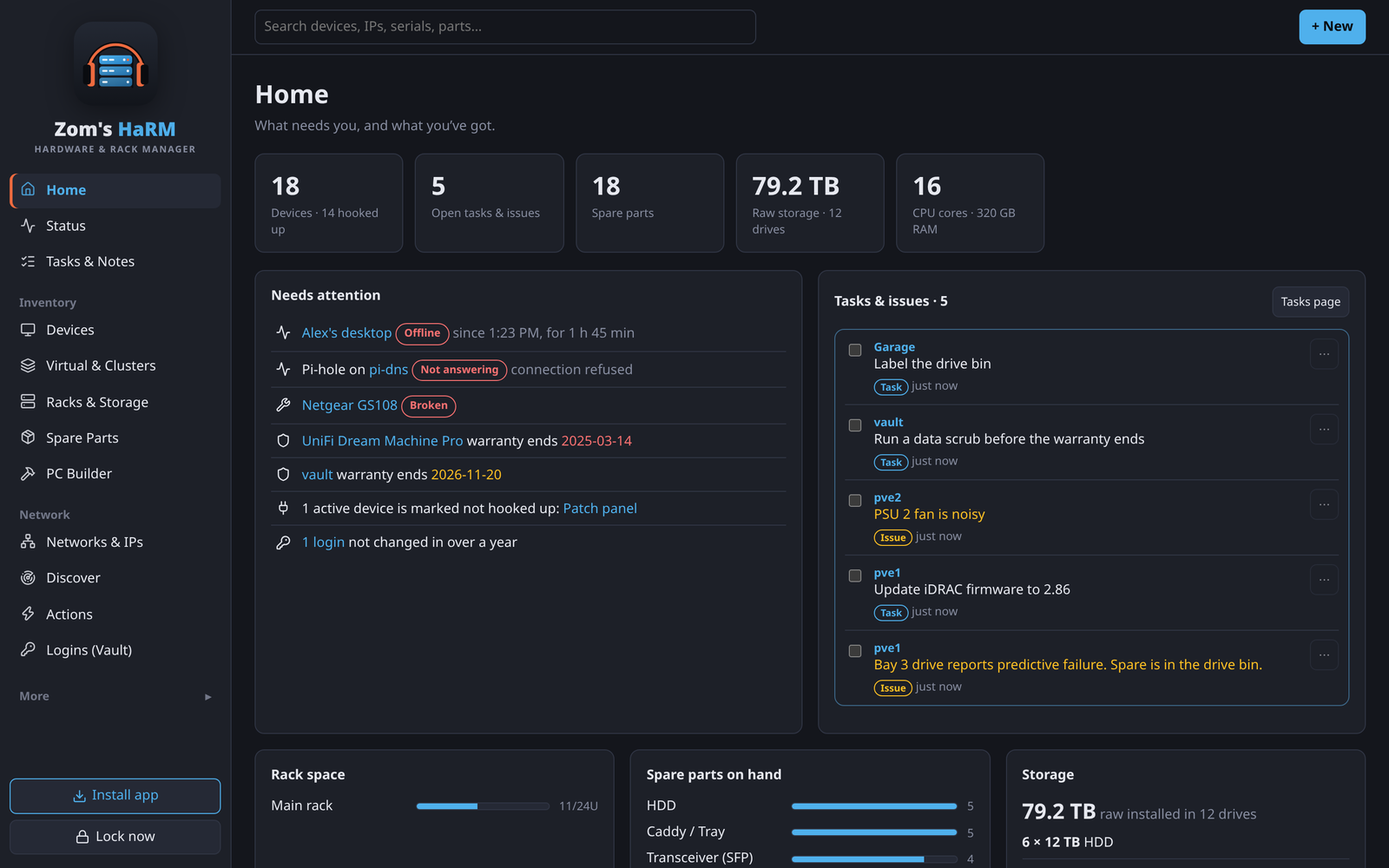
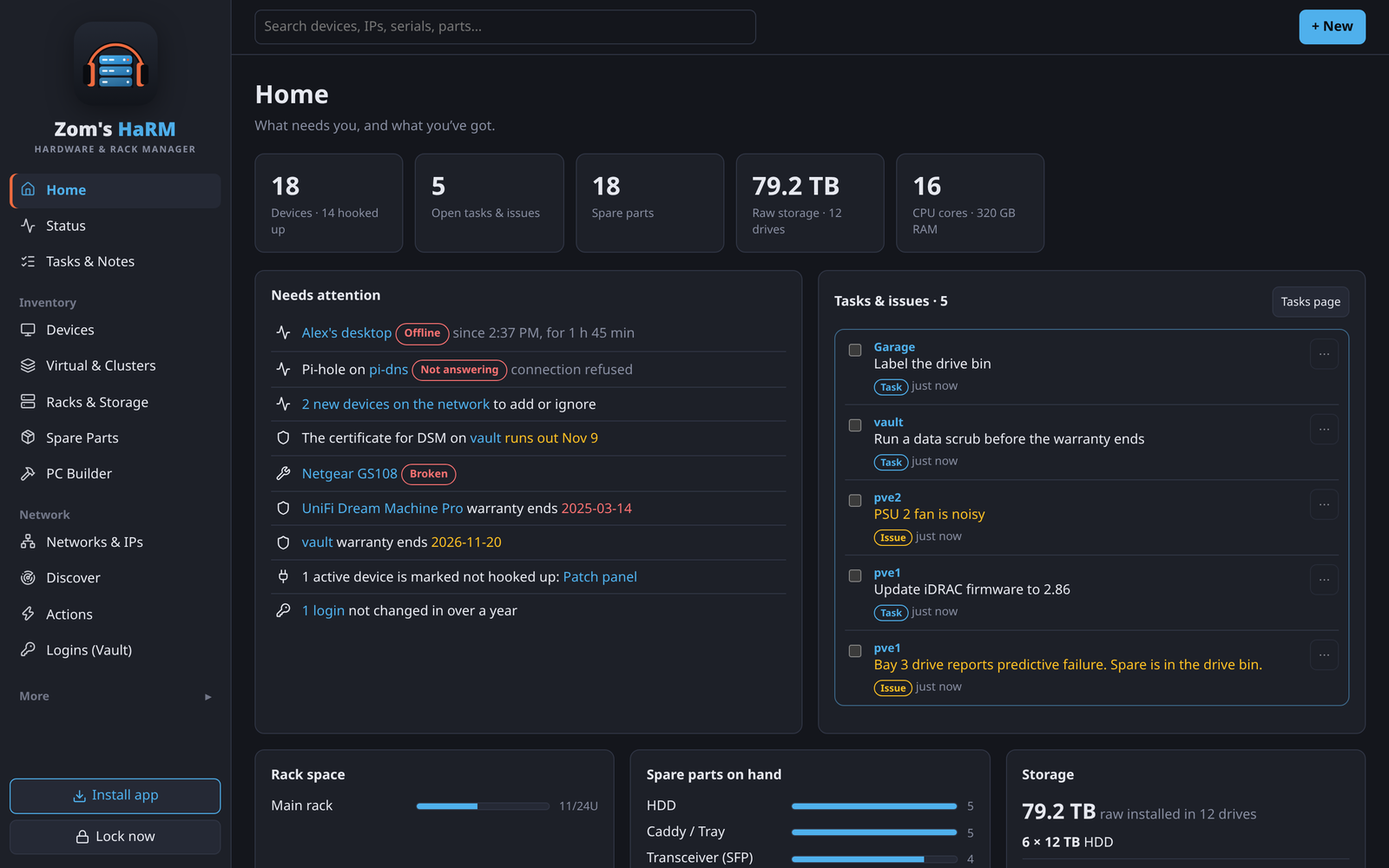
HaRM guide: Keeping watch group, uptime report, new devices, power budget
New pages for the uptime report, watching for new devices (picking
networks, leaving the guest Wi-Fi out) and the power budget. Status,
Alerts and Actions move into a Keeping watch group. Certificates, quiet
hours and backup copies documented where they live; glossary,
troubleshooting, settings and What's new updated; pictures retaken.

Changed region(s): [[0.1875, 0.434, 0.4688, 0.589], [0.2188, 0.62, 0.4688, 0.713]]

diff --git a/site/harm/new-devices.md b/site/harm/new-devices.md
@@ -1,0 +1,61 @@
+---
+description: "HaRM can scan the networks you pick now and then and tell you about devices it doesn't know: a new phone, a guest's laptop, something that shouldn't be there."
+---
+
+# New devices on the network
+
+HaRM can scan the networks you pick now and then, and tell you about any device it doesn't know yet: a new phone, a smart plug, a visitor's laptop, or something that shouldn't be there. Open **Status > ⋯ > Watch for new devices** to follow along. New in version 0.3.2.
+
+## Turning it on
+
+1. Add your networks with their address ranges first, in **Networks & IPs** (like `192.168.1.0/24`). See [Networks and cables](./networks).
+2. Open **Status > ⋯ > Watch for new devices** (or **Settings > Status and actions > New devices on the network**).
+3. Tick **Watch for new devices**, and tick the networks to watch.
+4. Press **Save**. HaRM runs the first scan straight away.
+
+![The watch settings with the home LAN ticked and the guest Wi-Fi left out](/img/harm/new-devices-settings.png)
+
+| Option | What it does |
+|---|---|
+| **Watch for new devices** | On or off. |
+| **Scan** | Every 15 or 30 minutes, every hour, or every 2 or 6 hours. |
+| **Send an alert for each new one** | Uses the ways set up in [Alerts](./alerts), with their quiet hours. |
+| The networks | Only the ticked ones are scanned. |
+
+### Which networks to watch
+
+Leave out networks where devices come and go all day, or you'll get an alert for every visitor:
+
+- **Guest Wi-Fi:** phones and laptops of whoever is visiting.
+- **IoT:** usually fine to watch once it's settled, but busy at first.
+- **WAN, VPN and transit networks:** not yours to scan.
+
+HaRM ticks your LAN, server and management networks the first time and leaves guest, IoT, Wi-Fi and WAN ones unticked. A network needs an address range to be watched, and the range can be at most a /22 (1,022 addresses).
+
+## The first scan only learns
+
+The first scan after turning the watch on, or after changing the networks, only learns what's already there: nothing is listed and no alerts are sent. From the next scan on, anything that wasn't there before shows up.
+
+## Adding or ignoring what it finds
+
+New devices show at the top of the [Status](./status) page under **New on the network**, with their address, name (when the network gives one), MAC address, network and when they were first seen. **Home** says how many are waiting.
+
+![New on the network, with two devices to add or ignore](/img/harm/new-devices.png)
+
+- **+ Add…** opens a new device with its name filled in. Save it, and HaRM adds its address and MAC on the **Network** tab and opens its page.
+- **Ignore** takes it off the list for good. A device ignored here doesn't come back, even when it leaves and returns.
+
+A device you add another way (by hand or with [Discover](./discover)) leaves the list by itself.
+
+## Good to know
+
+- A device is "known" when one of HaRM's devices has its MAC address or IP address. Devices that change their address use their MAC, so keep MACs on the **Network** tab.
+- Phones and laptops often use a different, made-up MAC on each Wi-Fi network (private Wi-Fi addresses). Add them once, or turn that off for your home Wi-Fi on the phone.
+- MAC addresses are only seen when HaRM is on the same network as the devices. In Docker, use `network_mode: host` (see [Setting up a server](./server)); otherwise it matches by IP address only.
+- The scan knocks on a few common ports and pings each address, like Discover's network scan. Devices that answer neither may be missed.
+
+## Related
+
+- [Discover](./discover): bring in a whole network at once
+- [Alerts](./alerts): how alerts are sent
+- [Status](./status): where new devices are listed

diff --git a/site/harm/whats-new.md b/site/harm/whats-new.md
@@ -14,9 +14,17 @@ What changed in each version of HaRM, newest first. It's the same list as [CHANG
 - HaRM checks every 5 minutes, and every minute while the page is open. Change it, or turn it off, in **Settings > Status and actions**. Devices that go offline also show on **Home**.
 - **Services are checked too:** each web page or port on a device's **Network** tab says **Answering** or **Not answering** (a 502 from a proxy counts as not answering), on its tile, on the device's page and on **Home**.
 - **Alerts:** a message by **ntfy** (a phone app), **email** or a **webhook** (Home Assistant, Discord, Slack, Gotify…) when a device or service stops answering, and when it's back. A short wait skips blips like restarts, many changes at once arrive as one message, and **Send a test** checks it works. Set it up in **Settings > Status and actions > Alerts**; turn it off for one device with **Send alerts about it**.
+- **Quiet hours** hold alerts overnight (or whenever you choose) and send them as one message when they end.
+- **Certificates:** HaRM notes when each https service's certificate runs out, warns on **Home** 30 days before, and alerts 14 days before.
+- **Uptime report** (**📊 Uptime** on the Status page): how much of the last day, week or month each device and service answered, worst first, with the number of outages, the longest, and the total time down. VMs, containers and the services your Docker containers publish are in it too.
+- **New devices on the network:** HaRM can scan the networks you pick now and then (leave the guest Wi-Fi out) and list anything it doesn't know at the top of the Status page, with **+ Add…** and **Ignore**, and an alert if you want one. The first scan only learns what's already there.
 - **The rack drawing** outlines a device in red and says **Offline** when it isn't answering.
 - **Wake** sends a Wake-on-LAN packet to an offline device with a MAC address.
 - **⋯ > Full screen** turns the page into a wall display.
+
+**Power budget**
+- Give a UPS or PDU what it **Can supply**, set what each device is **Plugged into**, and give a rack its **Power available** (its circuit's limit).
+- The rack page and the UPS's page show how much is used, counting through PDUs, and **Home** warns at 80% and over 100%.
 
 **One-click actions**
 - Save a command once and send it to a device over SSH with one click: quiet a server's fans, update, restart, power on through the iLO or iDRAC.
@@ -45,6 +53,7 @@ What changed in each version of HaRM, newest first. It's the same list as [CHANG
 **Settings**
 - Settings are grouped: Appearance, Locking and security, Phones & tablets, Status and actions, AI Assist, Data & backups, Shortcuts and About.
 - **Settings > About** shows the version and license, links to the code and this list, and has **Send feedback**, which starts an email with your version and device filled in.
+- **Copy to a second place** (**Settings > Data & backups**): each day's backup is also copied to another disk, like a NAS share or USB drive, keeping the last 7 to 90.
 - **Check for new versions** (off unless you turn it on) asks GitHub about twice a day and puts a note on **Home** when a newer HaRM is out.
 
 **On GitHub**

diff --git a/site/harm/power.md b/site/harm/power.md
@@ -1,0 +1,46 @@
+---
+description: "See how much power each UPS, PDU and rack is asked for, and get a warning before a UPS or circuit is overloaded."
+---
+
+# Power budget
+
+HaRM adds up what your devices draw and compares it with what each UPS or PDU can supply and what each rack's circuit allows. Open a rack (or a UPS) to follow along. New in version 0.3.2.
+
+![A rack's Power card: the rack at 33% of its circuit, and the UPS at 47%](/img/harm/rack-power.png)
+
+## Setting it up
+
+| Where | Field | What to enter |
+|---|---|---|
+| Each device, **Edit > More details** | **Typical draw (W)** | What it usually draws, in watts. The label, the maker's spec sheet or a plug-in power meter tells you. |
+| Each device, **Edit > More details** | **Plugged into** | The UPS or PDU it draws power from. |
+| The UPS or PDU, **Edit > More details** | **Can supply (W)** | The most it can power, in **watts**. A UPS has two ratings: use the W one, not the VA one (an "1500 VA" UPS is often 1000 W). |
+| The rack, **Edit** | **Power available (W)** | The circuit's safe limit. A 15 A, 120 V circuit is 1,440 W (80% of 1,800 W); a 16 A, 230 V one is about 2,900 W. |
+
+**Can supply** shows once the device's type is UPS or PDU. Only UPSes, PDUs and devices with **Can supply** set appear in the **Plugged into** list.
+
+## What it shows
+
+- **The rack page:** a **Power** card with everything hooked up in the rack against its **Power available**, and each UPS or PDU in the rack against what it can supply.
+- **A UPS or PDU's page:** a **Power** card on its **Overview** tab with its load and everything plugged into it.
+- **Home:** a warning under **Needs attention** when a UPS or rack reaches 80%, and "Over" past 100%.
+
+The bars turn amber at 80% and red at 100%.
+
+## How it's added up
+
+- Only devices that are **Hooked up** count. A spare server on the shelf doesn't draw anything.
+- A PDU plugged into a UPS passes its load on: the UPS's load includes everything plugged into the PDU.
+- A rack's total is each hooked-up device's own **Typical draw**, so a PDU in the rack isn't counted twice.
+- Devices without a **Typical draw** count as 0 W, and the card lists them, so you know the real total is higher.
+- A device can't be plugged into itself, or into something that's plugged into it.
+
+::: tip Why 80%
+A circuit shouldn't carry more than 80% of its rating for long, and a UPS near 100% has little runtime left and no room for a server's start-up surge. That's why HaRM warns at 80%.
+:::
+
+## Related
+
+- [Places and racks](./places-and-racks): the rack page
+- [Devices](./devices): editing a device
+- [Status](./status): which devices are answering right now

diff --git a/site/harm/uptime.md b/site/harm/uptime.md
@@ -1,0 +1,41 @@
+---
+description: "The uptime report shows how much of the last day, week or month each device and service answered, worst first, with its outages."
+---
+
+# Uptime report
+
+The uptime report shows how much of the last day, week or month each device and service answered, worst first. Open **Status** and press **📊 Uptime** to follow along. New in version 0.3.2.
+
+![The uptime report: Alex's desktop and pve2 at the top with their outages, the rest at 100%](/img/harm/uptime.png)
+
+## Reading it
+
+Pick **Last 24 hours**, **Last 7 days** or **Last 30 days** at the top. There are two tables, **Devices** and **Services**, each sorted worst first. Click a column heading to sort by it.
+
+| Column | What it means |
+|---|---|
+| **Answered** | The share of the time it answered, with a bar: green from 99.9%, amber from 99%, red below. |
+| **Outages** | How many times it stopped answering in the period. |
+| **Longest** | The longest of those outages. |
+| **Down in total** | All the outages added up. |
+
+A device is measured by its main address, the same one the [Status](./status) page shows first. Virtual machines and containers say which host they run on.
+
+## Services and Docker containers
+
+Every service HaRM checks is in the **Services** table: web pages and ports on a device's **Network** tab (see [Status](./status#services)).
+
+HaRM doesn't talk to Docker itself. To see your Docker containers in the report, add each one as a service on the Docker host's **Network** tab, with the port or web address it publishes (Portainer on 9443, Nextcloud on 8080…). Put "Docker container" in its notes if you like. A container that runs as its own machine with its own address (an LXC container on Proxmox, say) can be a device instead: see [Virtual machines and clusters](./virtual-and-clusters).
+
+## What counts
+
+- Only time HaRM was checking counts. If the HaRM computer was off or asleep, or checks were off, that time is left out instead of counting as down.
+- A device that's **Not hooked up**, retired, sold or has **Check if it's online** unticked isn't checked, so it isn't in the report.
+- History is kept for 30 days, so a device added last week only has last week.
+- For a full month with no gaps, run HaRM on an [always-on server](./scenarios/home-server).
+
+## Related
+
+- [Status](./status): what's answering right now
+- [Alerts](./alerts): a message the moment something stops answering
+- [Networks and cables](./networks): adding services and ports

diff --git a/site/harm/alerts.md b/site/harm/alerts.md
@@ -21,6 +21,10 @@ HaRM can send you a message when a device or service stops answering, and when i
 | **When a device stops answering** | **Alert right away**, or wait 5, 10, 15 or 30 minutes, or an hour. Waiting skips short blips, like a restart. |
 | **Also tell me when it's back** | A second message when it answers again, with how long it was down. |
 | **Also when a service stops answering** | Alerts about the services on a device's **Network** tab too (a web page or a port), while the device itself answers. |
+| **Also when a certificate runs out soon** | One alert 14 days before an https service's certificate runs out (or as soon as HaRM sees one that already has). |
+| **Hold alerts during quiet hours** | With **From** and **Until**: see [Quiet hours](#quiet-hours). |
+
+[New devices on the network](./new-devices) send their alerts the same way, when that's turned on.
 
 Alerts only cover devices that are checked (see [Status](./status#how-a-device-is-checked)). To leave one device out, edit it and untick **Send alerts about it**.
 
@@ -64,9 +68,15 @@ HaRM posts JSON with these fields:
 | A device stops answering | **pve2 is offline**: "No answer from 10.20.0.11 since 14:30." |
 | It's back | **pve2 is back online**: "10.20.0.11 answers again, after 25 min." |
 | A service stops answering | **Proxmox VE on pve1 isn't answering**: the address and why (HTTP 502, connection refused, no answer). |
-| More than 3 changes at once | One message, like **HaRM: 6 stopped answering**, listing them. A power cut or a dead switch sends one message, not twenty. |
+| A certificate runs out soon | **The certificate for DSM on vault runs out soon**: the address and the date. |
+| A new device on a watched network | **New on Home LAN: Sams-iPhone**: its address, MAC and name. |
+| More than 3 at once | One message, like **HaRM: 6 problems**, listing them. A power cut or a dead switch sends one message, not twenty. |
 
 A service isn't reported while its device is offline: the device's own alert covers it. When you turn alerts on, things that were already down don't send an alert.
+
+## Quiet hours
+
+Tick **Hold alerts during quiet hours** and choose **From** and **Until** (in the HaRM computer's time), like 22:00 to 07:00. Alerts in that time are held, and when quiet hours end they arrive together as one message ("HaRM: 3 alerts from quiet hours") listing what happened, including things that went down and came back overnight. **Send a test** is never held.
 
 ## When they're sent
 

diff --git a/site/harm/settings.md b/site/harm/settings.md
@@ -36,7 +36,8 @@ How it all protects your logins: [Security and privacy](./security).
 ## Status and actions
 
 - **Check**: how often HaRM checks which devices answer, from **Every minute** to **Every hour**, or **Never (only when I press Check now)**. Every 5 minutes at first. While the Status page is open, it checks every minute anyway.
-- **Alerts**: a message by ntfy, email or a webhook when a device or service stops answering, and when it's back. **Set up alerts…** chooses how and when; **Send a test** checks it works, and the list under it shows the last alerts sent. See [Alerts](./alerts).
+- **Alerts**: a message by ntfy, email or a webhook when a device or service stops answering, when it's back, and when a certificate runs out soon, with optional **quiet hours**. **Set up alerts…** chooses how and when; **Send a test** checks it works, and the list under it shows the last alerts sent. See [Alerts](./alerts).
+- **New devices on the network**: **Watch for new devices…** picks the networks to scan, how often, and whether to alert; **Scan now** scans straight away. See [New devices on the network](./new-devices).
 - **Actions** opens your saved one-click commands.
 
 To leave one device out of the checks, edit it and untick **Check if it's online**; to keep checking it without alerts, untick **Send alerts about it**. See [Status](./status) and [Actions](./actions). New in version 0.3.2.
@@ -54,6 +55,7 @@ Photos go only to the service you pick, and logins are never sent. Without a ser
 ## Data & backups
 
 - **Automatic backups**: the newest daily backups and where they're kept.
+- **Copy to a second place**: **Choose a folder…** on another disk (a NAS share or USB drive) and how many copies to keep; **Copy now** copies straight away. See [Data and backups](./data-and-backups#copying-backups-to-a-second-place). New in version 0.3.2.
 - **Download backup (.db)**: the whole database in one file. Logins stay encrypted inside.
 - **Export CSV**: a spreadsheet of each list. The logins file has names and usernames only, never passwords.
 

diff --git a/site/harm/glossary.md b/site/harm/glossary.md
@@ -33,11 +33,15 @@ What HaRM's words mean, in alphabetical order. Each links to the page that expla
 | **Offline, Online** | Whether a device answered HaRM's last check, on any port or to ping ([Status](./status)) |
 | **Older SSH** | The older ways of connecting that old iLO, iDRAC and switch SSH needs, turned on per action ([Actions](./actions#older-ssh-for-old-management-ports)) |
 | **Overcommit** | When a host's VMs are given more vCPUs or memory, in total, than it has ([Virtual machines and clusters](./virtual-and-clusters)) |
+| **Power budget** | How much a UPS, PDU or rack's circuit is asked for, against what it can supply ([Power budget](./power)) |
+| **Quiet hours** | A time of day when alerts are held and sent together afterwards ([Alerts](./alerts#quiet-hours)) |
 | **RAID, RAIDZ** | Ways of combining drives for speed or safety; HaRM shows the space each gives ([Parts and storage](./parts-and-storage)) |
 | **Recovery code** | The code that gets you back in if you forget the master password ([Security and privacy](./security)) |
 | **Spot** | Free text for exactly where something is: "top shelf left" ([Places and racks](./places-and-racks)) |
 | **Task** | A note that stays on **Home** until it's ticked off ([Notes and tasks](./notes-and-tasks)) |
 | **U (rack unit)** | A rack's height unit, 1.75 in. A 2U server takes two ([Places and racks](./places-and-racks#the-rack-view)) |
+| **Uptime** | The share of the time a device or service answered HaRM's checks ([Uptime report](./uptime)) |
+| **VA and W** | A UPS's two ratings; HaRM uses watts (W), which is the lower one ([Power budget](./power)) |
 | **Vault** | Where saved logins are kept, encrypted (**Logins (Vault)** in the menu) ([Logins](./logins)) |
 | **VLAN** | A separate network on the same cables and switches, numbered (VLAN 20) ([Networks and cables](./networks)) |
 | **VM (virtual machine)** | A computer running inside a host, with its own vCPUs, memory and disk ([Virtual machines and clusters](./virtual-and-clusters)) |

diff --git a/site/harm/status.md b/site/harm/status.md
@@ -50,7 +50,9 @@ Once a device answers, HaRM checks the services on its **Network** tab too, and 
 | A web address (`https://…` or `http://…`) | It sends any reply below a 500 error. A login page, a 401 or a 404 still means it's there; a 502 from a proxy in front of it means it isn't. Certificates aren't checked, since home-lab services usually have their own. |
 | A port, and no web address | The port accepts a connection. |
 
-Services marked **Stopped**, **Planned** or **Deprecated**, and UDP ones, aren't checked. A service that isn't answering also shows on **Home**, and the room's heading says how many.
+Services marked **Stopped**, **Planned** or **Deprecated**, and UDP ones, aren't checked.
+
+For an https service, HaRM also notes when its certificate runs out (self-signed ones too). The device's **Actions** tab shows the date, its tile says **Certificate runs out …** in its last 30 days, and **Home** warns too. [Alerts](./alerts) can send a message 14 days before. A service that isn't answering also shows on **Home**, and the room's heading says how many.
 
 The device's own page shows the same thing: its summary row starts with **Online** or **Offline**, and its **Actions** tab lists every address and service with its answer and the 24 bars, and the **Network** tab has an **Answering** column for services. Tap the word to check again.
 
@@ -103,6 +105,8 @@ More in [Troubleshooting](./troubleshooting#status-and-actions).
 ## Related
 
 - [Alerts](./alerts): a message by ntfy, email or webhook when something stops answering
+- [Uptime report](./uptime): how much of the last day, week or month each one answered
+- [New devices on the network](./new-devices): devices HaRM doesn't know yet, listed at the top of this page
 - [Actions](./actions): one-click commands, from a tile or a device's page
 - [Settings](./settings#status-and-actions): how often HaRM checks
 - [Networks and cables](./networks): addresses, MACs and services that the checks use

diff --git a/site/harm/data-and-backups.md b/site/harm/data-and-backups.md
@@ -39,6 +39,21 @@ Everything in the database, including your saved logins. They stay encrypted ins
 
 A backup on the same disk doesn't help if the disk dies. Copy the `backups` folder (or a downloaded backup) to another disk or computer now and then.
 
+## Copying backups to a second place
+
+A backup on the same disk as HaRM doesn't help when that disk dies. **Settings > Data & backups > Copy to a second place** copies each day's backup to another disk as well. New in version 0.3.2.
+
+1. Connect the other disk to the computer HaRM runs on: a USB drive, or a NAS share mounted as a drive or folder.
+2. Press **Choose a folder…** and enter the folder's whole path, like `D:\HaRM backups` on Windows or `/mnt/nas/harm-backups` on Linux.
+3. Choose how many copies to keep there: the last 7, 14, 30 or 90.
+4. Press **Save**. HaRM copies the newest backup straight away, then once a day.
+
+The card shows the last copy, or why it failed ("isn't there. Is the drive or share connected?"). **Copy now** copies again. Logins stay encrypted in the copies, like in every backup; `alerts.key` isn't copied.
+
+::: tip In Docker
+The folder has to be inside the container. Add it under `volumes:` in `docker-compose.yml`, like `- /mnt/nas/harm-backups:/backup-copies`, run `docker compose up -d`, and pick `/backup-copies` in HaRM. The folder must be writable by the container's user (ID 10001).
+:::
+
 ## Downloading a backup
 
 **Settings > Data & backups > Download backup (.db)** saves the whole database to your Downloads, whenever you like. It's the same kind of file as the daily ones.

diff --git a/site/harm/troubleshooting.md b/site/harm/troubleshooting.md
@@ -176,6 +176,18 @@ HaRM checks exactly the web address or port on the device's **Network** tab. If 
 3. Email: for Gmail and Outlook, use an app password. Check **Security** matches the port (STARTTLS with 587, SSL/TLS with 465).
 4. Nothing at all after a real outage: the HaRM computer has to be on, and checks on (**Settings > Status and actions > Check**). Alerts wait as long as you chose before sending.
 
+### New devices: nothing is ever listed
+
+The first scan after turning the watch on only learns what's there. If later scans find nothing either, check the network's address range in **Networks & IPs**, and that HaRM is on that network. **Settings > Status and actions > New devices on the network** shows the last scan and any error.
+
+### New devices: the same phone keeps showing up
+
+Phones and laptops use a made-up MAC address per Wi-Fi network, and some change it now and then. Add the device once with **+ Add…**, or turn off the private Wi-Fi address for your home network on the phone.
+
+### Copy to a second place: "isn't there"
+
+The drive or share isn't connected or mounted on the HaRM computer. Connect it and press **Copy now**. In Docker, the folder must be added under `volumes:`.
+
 ### An action says the machine "only speaks an older kind of SSH"
 
 Edit the action and tick **Older SSH**. If it still fails, paste the `-o …` settings from an `ssh` command that works into **Other SSH settings** (under **More details**).

diff --git a/site/harm/places-and-racks.md b/site/harm/places-and-racks.md
@@ -35,7 +35,7 @@ Open a rack from **Racks & Storage** to see it front and rear.
 ![A rack, front and rear](/img/harm/rack.png)
 
 - **Click an empty U** to add a device there, or to place one you already have.
-- Each device shows its name, type and status. Its color says what kind of device it is (servers and computers, network, storage, power, other gear, accessories), and a key under the rack names each color. A device that isn't answering is outlined in red and says **Offline** (see [Status](./status)). New in version 0.3.2.
+- Each device shows its name, type and status. Its color says what kind of device it is (servers and computers, network, storage, power, other gear, accessories), and a key under the rack names each color. A device that isn't answering is outlined in red and says **Offline** (see [Status](./status)). With the rack's **Power available** set, a **Power** card shows how much of it is used (see [Power budget](./power)). New in version 0.3.2.
 - Broken devices get a red outline, spares and standby devices are dimmed, and a flag shows open issues.
 - Devices can be half depth and mounted at the front or rear, so a front and a rear device can share a U.
 - HaRM refuses overlaps and positions outside the rack, and says which device is in the way.

diff --git a/site/harm/server-backups.md b/site/harm/server-backups.md
@@ -16,7 +16,7 @@ Everything is in the `data` folder (Docker: `./data` next to `docker-compose.yml
 | `backups/` | Daily copies of `harm.db`, the last 14 by default |
 | `tls/` | The certificate authority your phones trust. Without it, every phone has to trust HaRM again. |
 
-HaRM makes the daily backups by itself. What it can't do is put them on another disk: copy the whole `data` folder to another disk, NAS share or computer now and then, or include it in the server's own backups.
+HaRM makes the daily backups by itself, and **Settings > Data & backups > Copy to a second place** copies each one to another disk or NAS share too: see [Data and backups](./data-and-backups#copying-backups-to-a-second-place). The `tls/` folder and `alerts.key` aren't in those backups, so also copy the whole `data` folder somewhere now and then, or include it in the server's own backups.
 
 ## Restoring
 
